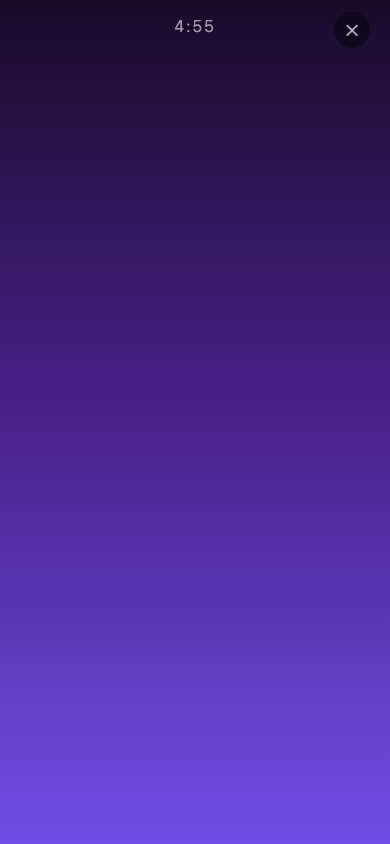
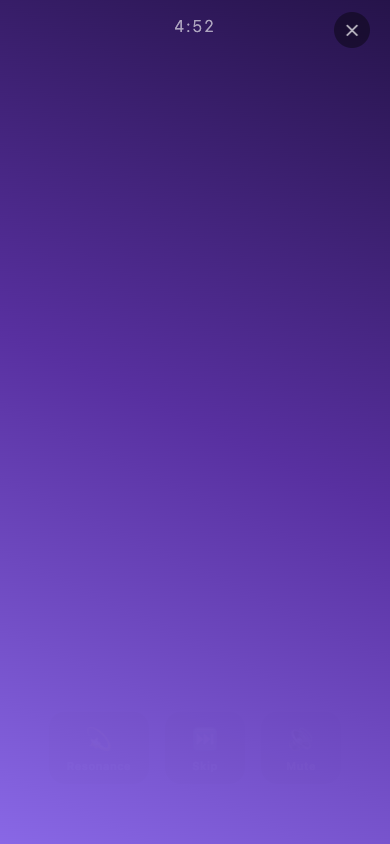
Update docs site with latest screenshots and feature descriptions
Fresh screenshots reflecting Phase 2/3 features (streak counter,
highlight reel button, session controls). Updated feature cards
to highlight customization and Resonance. Updated support FAQ
with in-session controls and custom affirmation instructions.

diff --git a/docs/index.html b/docs/index.html
@@ -96,12 +96,12 @@
         <div class="feature reflect">
           <div class="icon">🙏</div>
           <h3>Reflection journal</h3>
-          <p>After each session, tap how you feel — Grateful, Neutral, or Restless — and optionally jot a one-line note. History is saved locally.</p>
+          <p>After each session, tap how you feel — Grateful, Neutral, or Restless — and optionally jot a one-line note. Track your streak over time.</p>
         </div>
         <div class="feature private">
-          <div class="icon">⤓</div>
-          <h3>Completely private</h3>
-          <p>No network calls, no analytics, no cloud accounts. Your reflections and preferences live on your device and nowhere else.</p>
+          <div class="icon">✦</div>
+          <h3>Fully customizable</h3>
+          <p>Write your own affirmations, add personal photos, toggle library affirmations on or off. Star moments with Resonance to save to your Highlight Reel.</p>
         </div>
       </div>
     </div>
@@ -142,16 +142,16 @@
       </div>
       <div class="showcase">
         <figure class="shot">
-          <img src="assets/screenshot-themes.png" alt="Theme picker with 8 themes" />
+          <img src="assets/screenshot-themes.png" alt="Theme picker with 8 themes and streak counter" />
           <figcaption class="label"><span>Theme picker</span><span class="num">01</span></figcaption>
         </figure>
         <figure class="shot">
-          <img src="assets/screenshot-session.png" alt="Session playing with purple gradient" />
-          <figcaption class="label"><span>Session</span><span class="num">02</span></figcaption>
+          <img src="assets/screenshot-affirmation.png" alt="Affirmation card over gradient background" />
+          <figcaption class="label"><span>Affirmation</span><span class="num">02</span></figcaption>
         </figure>
         <figure class="shot">
-          <img src="assets/screenshot-affirmation.png" alt="Affirmation card during session" />
-          <figcaption class="label"><span>Affirmation</span><span class="num">03</span></figcaption>
+          <img src="assets/screenshot-session.png" alt="Session with Ken Burns gradient" />
+          <figcaption class="label"><span>Session</span><span class="num">03</span></figcaption>
         </figure>
         <figure class="shot">
           <img src="assets/screenshot-reflection.png" alt="Reflection modal after session" />

diff --git a/docs/support.html b/docs/support.html
@@ -65,11 +65,11 @@
       When the timer ends, you're asked to log how you feel.
     </p>
 
-    <h3>Can I skip an affirmation?</h3>
+    <h3>What are the in-session controls?</h3>
     <p>
-      In the current version, affirmations cycle automatically every 15 seconds. You can stop the
-      session at any time using the ✕ button in the top-right corner. Controls for skipping, muting,
-      and favoriting are coming in a future update.
+      During a session, tap anywhere to reveal three controls: <b>Resonance</b> (💫) saves the
+      current affirmation to your Highlight Reel, <b>Skip</b> (⏭️) jumps to the next affirmation,
+      and <b>Mute</b> (🔇) toggles audio and TTS on or off. Controls auto-hide after 8 seconds.
     </p>
 
     <h3>Where is my data stored?</h3>
@@ -82,8 +82,10 @@
 
     <h3>Can I add my own affirmations?</h3>
     <p>
-      Not yet — custom affirmations are planned for a future update. For now, each theme includes
-      30 handcrafted affirmations that are shuffled each session so the order stays fresh.
+      Yes! Long-press any theme card on the home screen to open the customization panel. You can
+      write your own affirmations, toggle individual library affirmations on or off, and add
+      personal photos from your camera roll. Custom affirmations are mixed with the library
+      and shuffled each session.
     </p>
 
     <h3>The voice sounds robotic — can I change it?</h3>